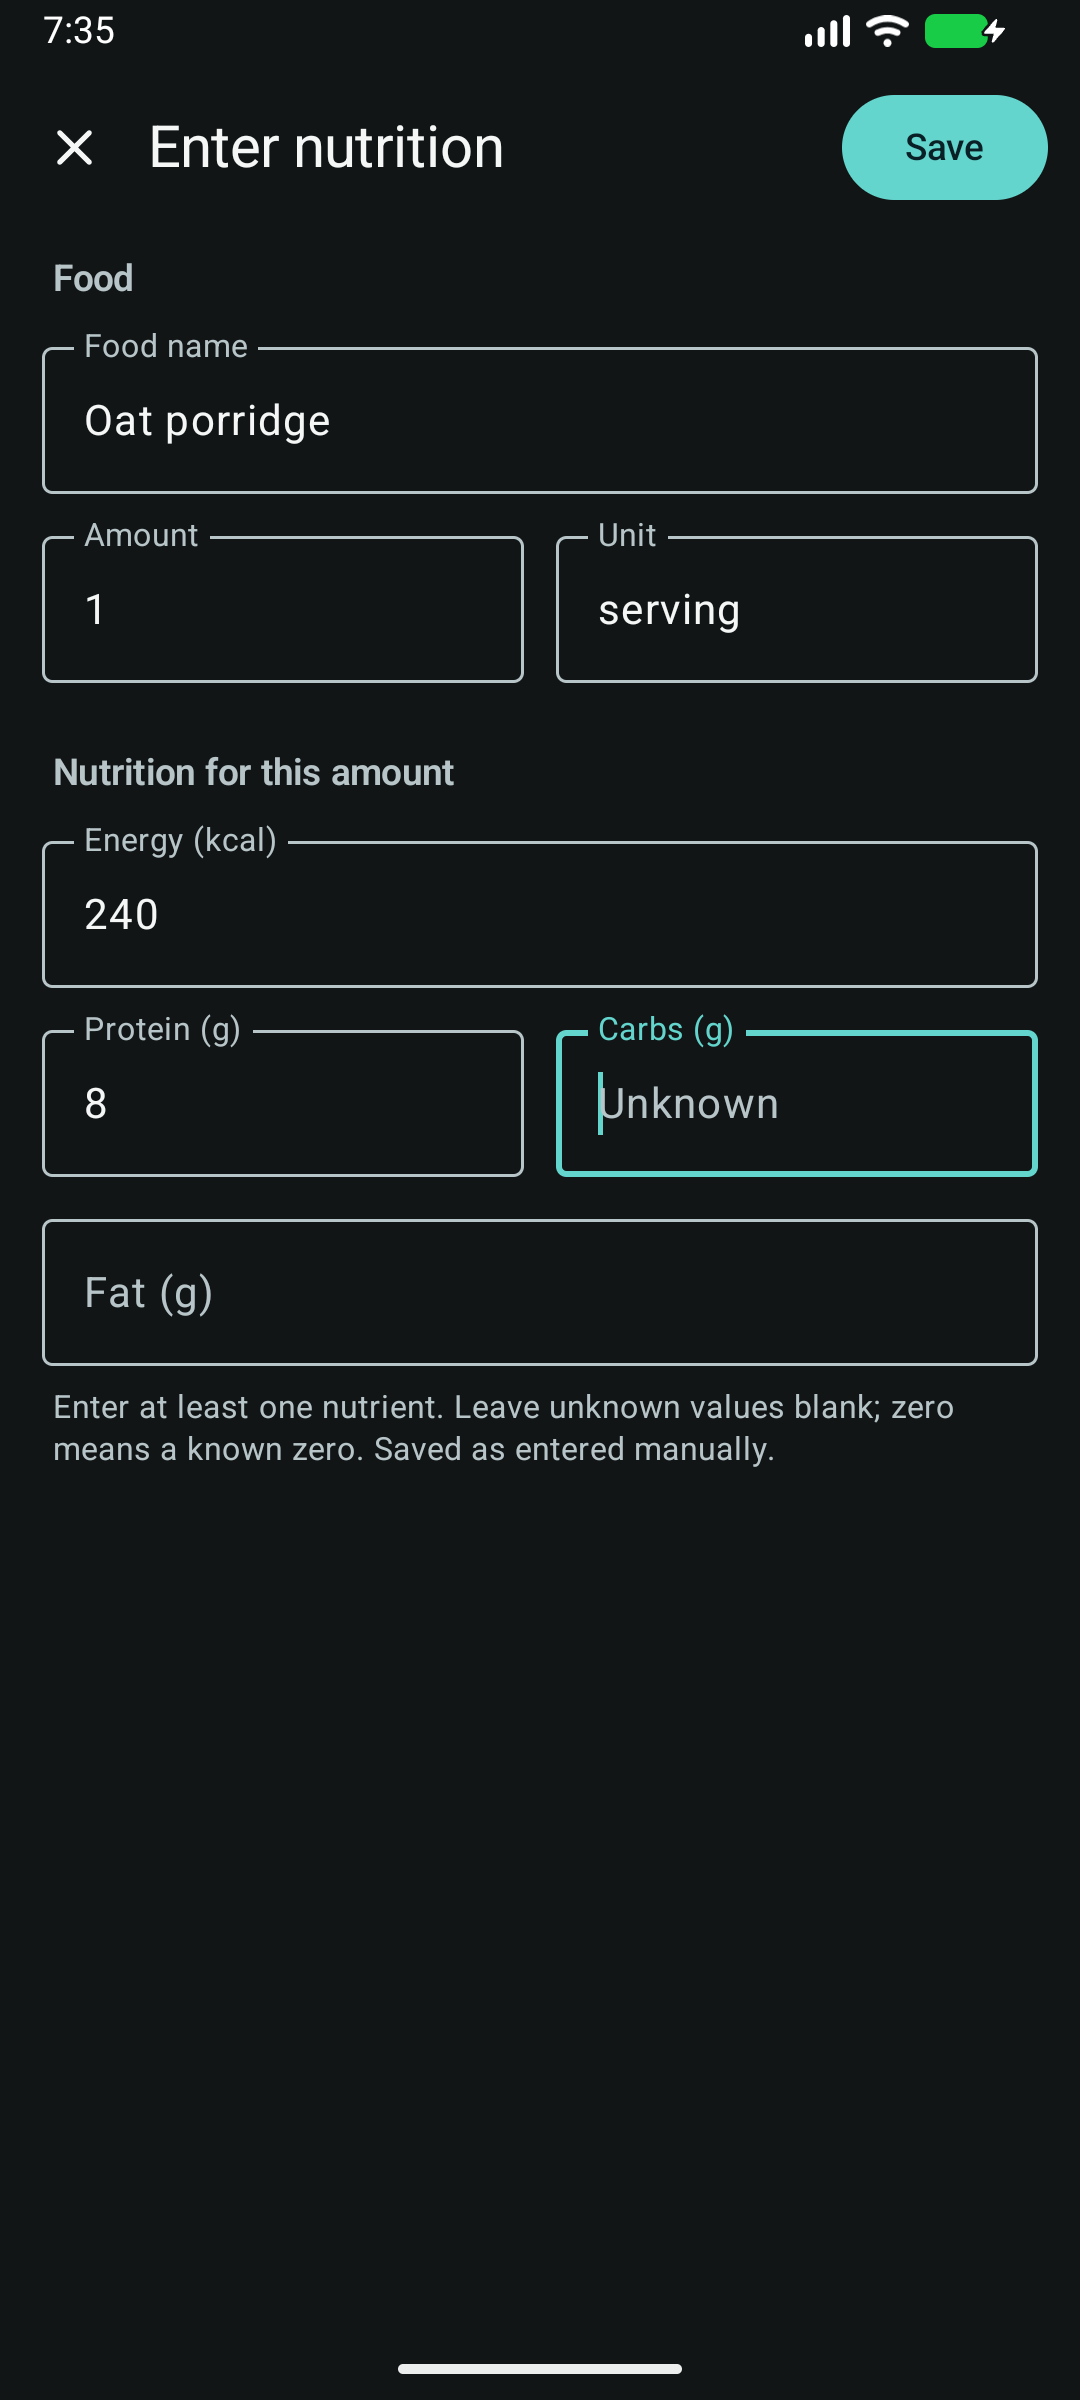
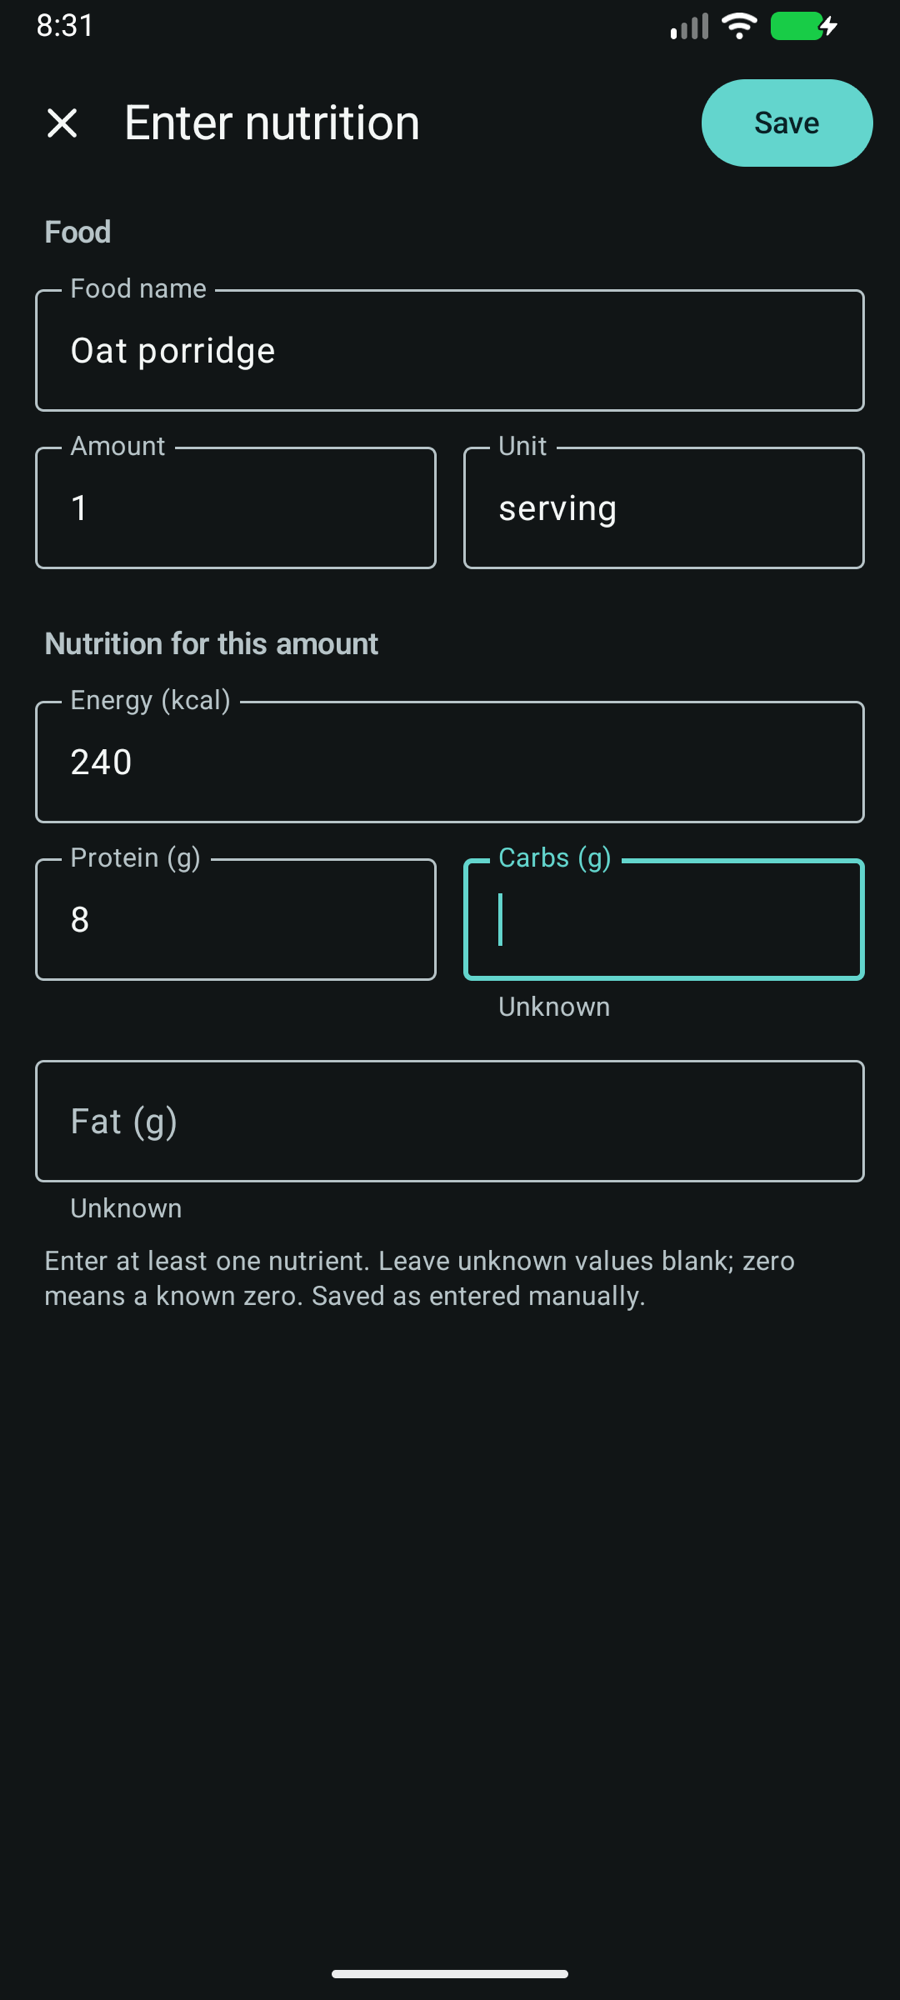
docs(android): record Today, manual entry and composer review fixes

diff --git a/docs/verification/2026-10-24-android-today.md b/docs/verification/2026-10-24-android-today.md
@@ -30,10 +30,39 @@ Recorded 2026-10-24. Plan: Android app shell and Today (plan 3a).
 `docs/verification/android-today/`: `today-light.png`, `today-dark.png`, `today-large.png`,
 `manual-light.png`, `manual-dark.png`, `composer-light.png`, `composer-dark.png`.
 
+## Review fixes
+
+- Source SHA tested: `30f29e64f82830c8ade6c3a5391eb0d8585c960e` (same environment and command as above, one run,
+  `--rerun-tasks`). Result: BUILD SUCCESSFUL.
+  - `:app:testDebugUnitTest`: 127 tests, 0 failed, 0 errors, 0 skipped.
+  - `:app:connectedDebugAndroidTest`: 101 tests, 0 failed, 0 errors, 0 skipped.
+  - `:app:lintDebug` and `:app:assembleRelease` passed; `scripts/ci/parity.py` and the `scripts/ci` unit tests passed.
+- New tests: `TodayScreenTest.failedReadOffersTryAgainAndKeepsTheLastGoodDay` (synthetic undecodable head) and the
+  day-actions semantics in `everyTagExists`; `ManualNutritionScreenTest.blankNutrientsReadUnknownAndNameErrorWaitsForLeaving`
+  and the inert receipt in `saveCreatesMealShownOnToday`; `MealComposerScreenTest.moreThanEightPhotosSaysTheLimit`,
+  `transparentPhotoIsFlattenedOntoWhite`, `noteIsCappedAtTheStoreLimit`, `racedSaveIsRetriedOnce`,
+  `changedDraftAfterAnUnconfirmedSaveIsNotReturnedAsTheOldMeal`.
+- `manual-light.png` and `manual-dark.png` re-captured (blank nutrients now show "Unknown" as supporting text).
+
+## Process death
+
+Run `scripts/android/kill_restore_check.sh` (debug APK at the SHA above, emulator `Medium_Phone_API_37.0`). It clears
+the app's data, then for each flow: fills the draft, presses Home, waits 2 s, runs `adb shell am kill com.yakov103.mivu`
+until the process is gone, and reopens the existing task with `am start -n com.yakov103.mivu/.MainActivity`.
+
+- Manual entry (Today > Add manually, "Synthetic apple", 95 kcal): "Enter nutrition" reopened with both values.
+- Composer (sample mode, Today > Log meal, "Synthetic tea", one synthetic PNG picked in the system photo picker,
+  "Review before saving totals" on): "Log meal" reopened with the note, "Attached meal photo 1" and the toggle on.
+- Result: `PASS`, no app change needed. Note: reopening with the launcher intent after a task first started by
+  `am start` (no LAUNCHER category) makes Android start a new task without saved state; that is a test-harness
+  artefact, so the script reopens the task itself.
+
 ## Not covered
 
 - Pip art is static; the morning check-in and weight row are not built.
 - No "Set a goal" or "Edit goals" entry; meal rows are not tappable (no meal detail).
 - Food editor, adjust total and move meal are not built.
 - Camera capture is not built.
+- `MaterialExpressiveTheme` and `MotionScheme` are internal in the resolved material3 1.4.0, so the theme stays
+  `MaterialTheme`; the Today kcal change uses Compose's default springs, which honour "Remove animations".
 - Release builds not run on a device; no hosted CI run is claimed for these results.
